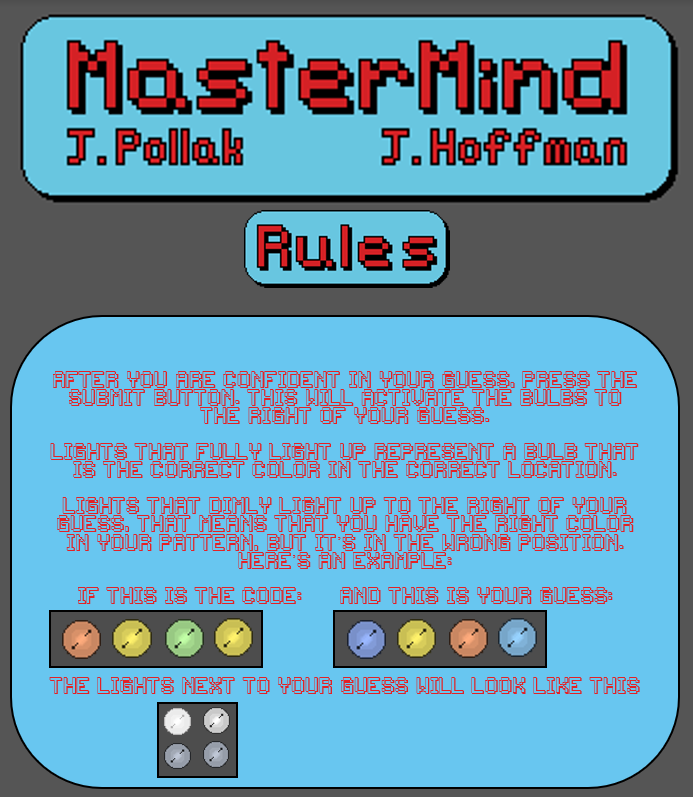
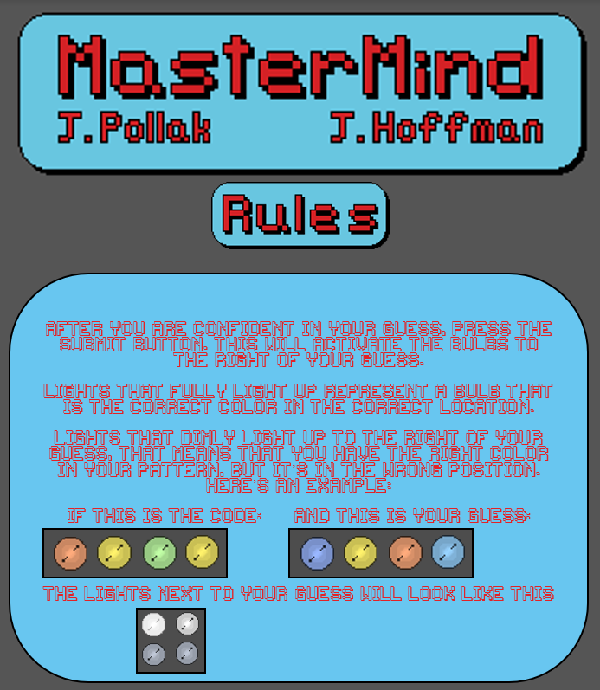
Menu & rules

diff --git a/project3/js/main.js b/project3/js/main.js
@@ -9,6 +9,9 @@ const sceneHeight = app.view.height;
 let stage;
 
 let menuScene;
+let rule1Scene;
+let rule2Scene;
+let rule3Scene;
 let gameScene;
 let gameOverScene;
 let rows = [];
@@ -23,9 +26,28 @@ function setup(){
 
     menuScene = new PIXI.Container();
     menuScene.visible = true;
+    let menuPhoto = PIXI.Sprite.fromImage("images/MainMenu.png");
+    menuScene.addChild(menuPhoto);
     stage.addChild(menuScene);
 
     //console.log(menuScene);
+
+    //rules scenes
+    rule1Scene = new PIXI.Container();
+    rule1Scene.visible = false;
+    rule2Scene = new PIXI.Container();
+    rule2Scene.visible = false;
+    rule3Scene = new PIXI.Container();
+    rule3Scene.visible = false;
+    let rule1Photo = PIXI.Sprite.fromImage("images/Rules1.png");
+    let rule2Photo = PIXI.Sprite.fromImage("images/Rules2.png");
+    let rule3Photo = PIXI.Sprite.fromImage("images/Rules3.png");
+    rule1Scene.addChild(rule1Photo);
+    rule2Scene.addChild(rule2Photo);
+    rule3Scene.addChild(rule3Photo);
+    stage.addChild(rule1Scene);
+    stage.addChild(rule2Scene);
+    stage.addChild(rule3Scene);
 
     gameScene = new PIXI.Container();
     gameScene.visible = false;
@@ -44,21 +66,62 @@ function setup(){
 function addTextAndButtons(){
 
     // Create start button for main menu
-    let startButton = new PIXI.Text("Start");
-    startButton.style = new PIXI.TextStyle({
-        fill: 0x00FF00,
-        fontSize: 30,
-        fontFamily: "Vernanda",
-        stokeThickness: 6
-    });
-    startButton.x = 0;
-    startButton.y = 0;
+    let startButton = PIXI.Sprite.fromImage("images/StartButton.png");
+    startButton.anchor.set(0.5,0.5);
+    startButton.x = sceneWidth / 2;
+    startButton.y = sceneHeight - 150;
     startButton.interactive = true;
     startButton.buttonMode = true;
     startButton.on("pointerup",startGame);
     startButton.on("pointerover",e=>e.target.alpha = 0.7);
     startButton.on("pointerout",e=>e.currentTarget.alpha = 1.0);
     menuScene.addChild(startButton);
+
+    //create rules button for main menu
+    let rulesButton = PIXI.Sprite.fromImage("images/RulesButton.png");
+    rulesButton.anchor.set(0.5,0.5);
+    rulesButton.x = sceneWidth / 2;
+    rulesButton.y = sceneHeight - 350;
+    rulesButton.interactive = true;
+    rulesButton.buttonMode = true;
+    rulesButton.on("pointerup",showRules);
+    rulesButton.on("pointerover",e=>e.target.alpha = 0.7);
+    rulesButton.on("pointerout",e=>e.currentTarget.alpha = 1.0);
+    menuScene.addChild(rulesButton);
+
+    //create next buttons for rules menu
+    let nextButton1 = PIXI.Sprite.fromImage("images/nextButton.png");
+    nextButton1.anchor.set(0.5,0.5);
+    nextButton1.x = sceneWidth - 150;
+    nextButton1.y = sceneHeight - 85;
+    nextButton1.interactive = true;
+    nextButton1.buttonMode = true;
+    nextButton1.on("pointerup", cycleRules);
+    nextButton1.on("pointerover",e=>e.target.alpha = 0.7);
+    nextButton1.on("pointerout",e=>e.currentTarget.alpha = 1.0);
+    rule1Scene.addChild(nextButton1);
+
+    let nextButton2 = PIXI.Sprite.fromImage("images/nextButton.png");
+    nextButton2.anchor.set(0.5,0.5);
+    nextButton2.x = sceneWidth - 150;
+    nextButton2.y = sceneHeight - 85;
+    nextButton2.interactive = true;
+    nextButton2.buttonMode = true;
+    nextButton2.on("pointerup", cycleRules);
+    nextButton2.on("pointerover",e=>e.target.alpha = 0.7);
+    nextButton2.on("pointerout",e=>e.currentTarget.alpha = 1.0);
+    rule2Scene.addChild(nextButton2);
+
+    let nextButton3 = PIXI.Sprite.fromImage("images/nextButton.png");
+    nextButton3.anchor.set(0.5,0.5);
+    nextButton3.x = sceneWidth - 150;
+    nextButton3.y = sceneHeight - 85;
+    nextButton3.interactive = true;
+    nextButton3.buttonMode = true;
+    nextButton3.on("pointerup", cycleRules);
+    nextButton3.on("pointerover",e=>e.target.alpha = 0.7);
+    nextButton3.on("pointerout",e=>e.currentTarget.alpha = 1.0);
+    rule3Scene.addChild(nextButton3);
 
     // Create the rows and input for game scene
     createRows(10);
@@ -102,9 +165,35 @@ function addTextAndButtons(){
 
 function startGame(){
     gameScene.visible = true;
+    rule1Scene.visible = false;
+    rule2Scene.visible = false;
+    rule3Scene.visible = false;
     menuScene.visible = false;
     gameOverScene.visible = false;
+}
 
+function showRules(){
+    gameScene.visible = false;
+    rule1Scene.visible = true;
+    rule2Scene.visible = false;
+    rule3Scene.visible = false;
+    menuScene.visible = false;
+    gameOverScene.visible = false;
+}
+
+function cycleRules(){
+    if(rule1Scene.visible){
+        rule1Scene.visible = false;
+        rule2Scene.visible = true;
+    }
+    else if(rule2Scene.visible){
+        rule2Scene.visible = false;
+        rule3Scene.visible = true;
+    }
+    else if(rule3Scene.visible){
+        rule3Scene.visible = false;
+        menuScene.visible = true;
+    }
 }
 
 function createRows(num){
